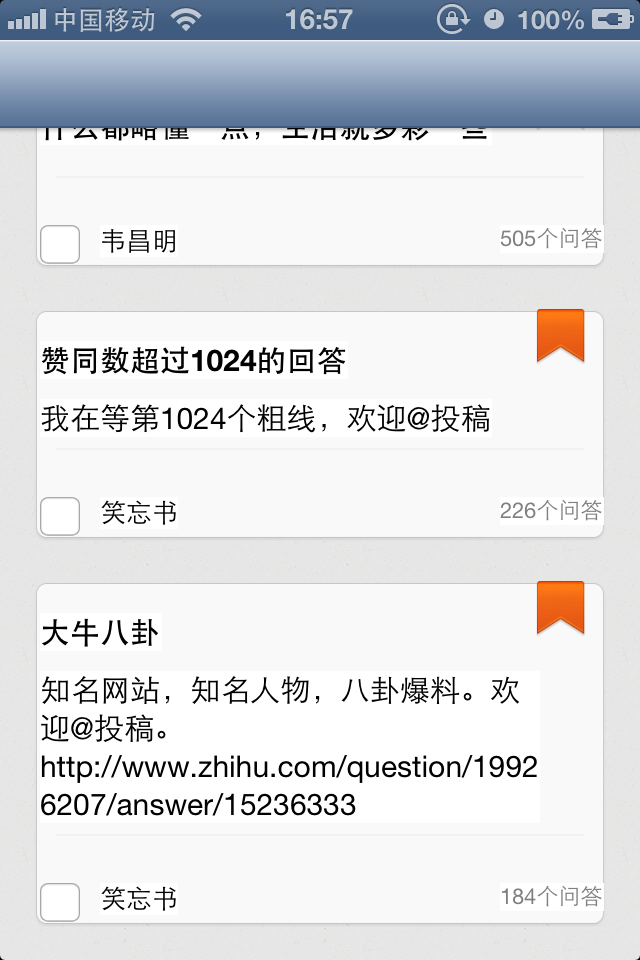
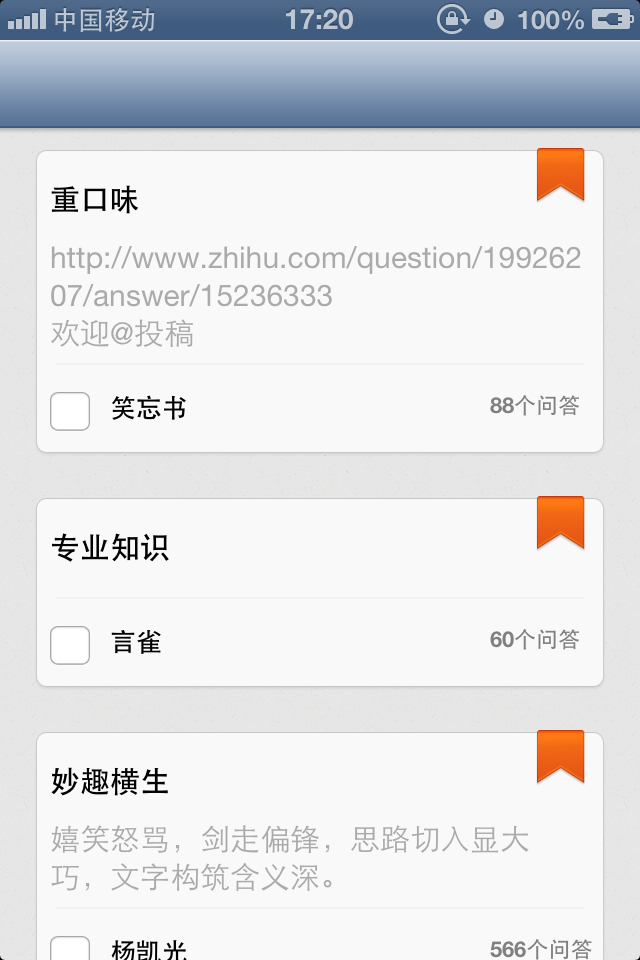
coding

diff --git a/ZHDemo/ZHCollectionCell.m b/ZHDemo/ZHCollectionCell.m
@@ -12,24 +12,24 @@
 
 #define Default_Cell_Height											95
 
-#define CellContent_Left_Margin									10
+#define CellContent_Left_Margin									15
 #define CellContent_Top_Margin									15
 
 // Des
 #define DesContent_To_Title_Margin							10
 #define DesContent_To_Right_Margin							25
-#define DesContent_To_Underline_Margin					15
+#define DesContent_To_Underline_Margin					10
 
 // Bottom Content
-#define BottomContent_To_Underline_Margin				15
+#define BottomContent_To_Underline_Margin				10
 #define BottomContent_Avatar_To_Name_Margin			10
 #define BottomContent_Answer_Max_Width					70
-#define BottomContent_Answer_To_Right_Margin	  10
+#define BottomContent_Answer_To_Right_Margin	  15
 #define BottomContent_To_Bottom								  10
 
 
 #define DesLabelFont														[UIFont systemFontOfSize:15.0f]
-#define DesLabelWidth														250
+#define DesLabelWidth														270
 
 
 @interface ZHCollectionCell ()
@@ -64,15 +64,17 @@
       [collectionCellTitleLabel_ setFont:[UIFont boldSystemFontOfSize:15.0f]];
       [collectionCellTitleLabel_ setNumberOfLines:1];
       [collectionCellTitleLabel_ setLineBreakMode:NSLineBreakByTruncatingTail];
+      [collectionCellTitleLabel_ setBackgroundColor:[UIColor clearColor]];
       [self.contentView addSubview:collectionCellTitleLabel_];
     }
     
     if (!collectionCellDesLabel_) {
       self.collectionCellDesLabel = [[UILabel alloc] init];
       [collectionCellDesLabel_ setFont:DesLabelFont];
-      [collectionCellDesLabel_ setTextColor:[UIColor darkTextColor]];
+      [collectionCellDesLabel_ setTextColor:[UIColor lightGrayColor]];
       [collectionCellDesLabel_ setNumberOfLines:0];
       [collectionCellDesLabel_ setLineBreakMode:NSLineBreakByWordWrapping];
+      [collectionCellDesLabel_ setBackgroundColor:[UIColor clearColor]];
       [self.contentView addSubview:collectionCellDesLabel_];
     }
     
@@ -90,15 +92,17 @@
     
     if (!collectionCellNameLabel_) {
       self.collectionCellNameLabel = [[UILabel alloc] init];
-      [collectionCellNameLabel_ setFont:[UIFont systemFontOfSize:13.0f]];
+      [collectionCellNameLabel_ setFont:[UIFont boldSystemFontOfSize:13.0f]];
+      [collectionCellNameLabel_ setBackgroundColor:[UIColor clearColor]];
       [self.contentView addSubview:collectionCellNameLabel_];
     }
     
     if (!collectionCellAnswersLabel_) {
       self.collectionCellAnswersLabel = [[UILabel alloc] init];
-      [collectionCellAnswersLabel_ setFont:[UIFont systemFontOfSize:11.0f]];
+      [collectionCellAnswersLabel_ setFont:[UIFont boldSystemFontOfSize:11.0f]];
       [collectionCellAnswersLabel_ setTextColor:[UIColor grayColor]];
       [collectionCellAnswersLabel_ setTextAlignment:NSTextAlignmentRight];
+      [collectionCellAnswersLabel_ setBackgroundColor:[UIColor clearColor]];
       [self.contentView addSubview:collectionCellAnswersLabel_];
     }
     
